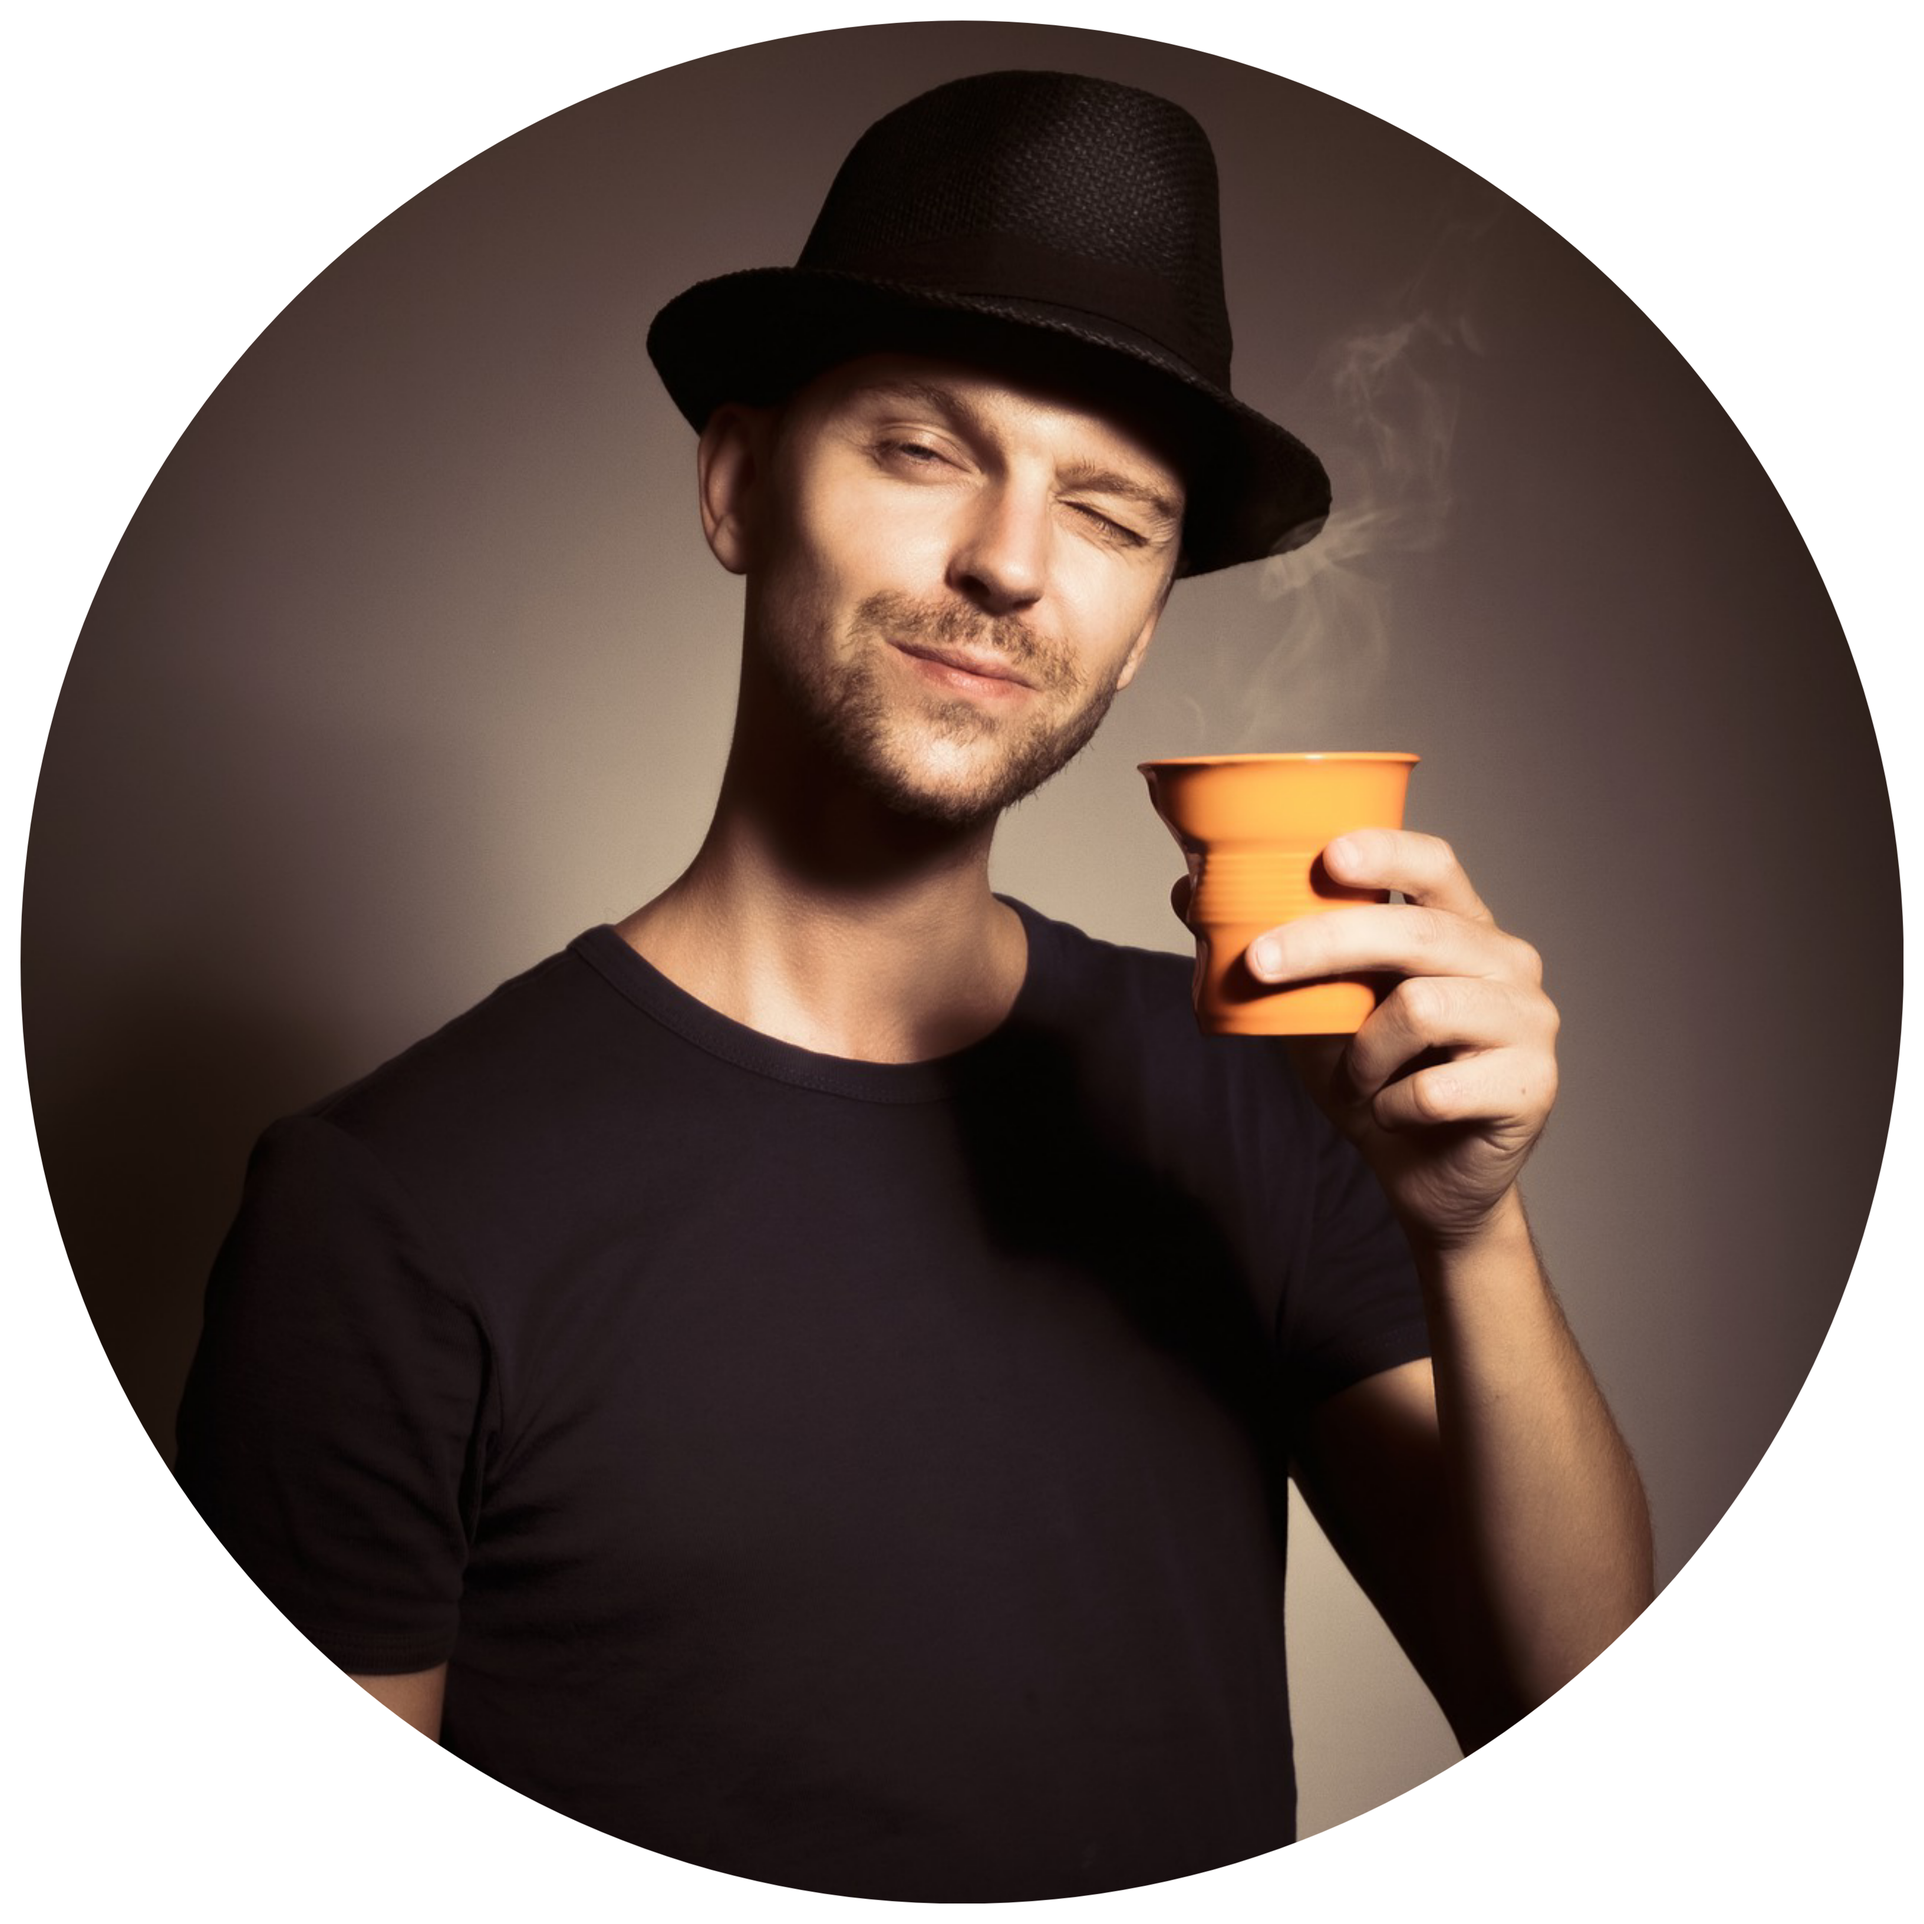
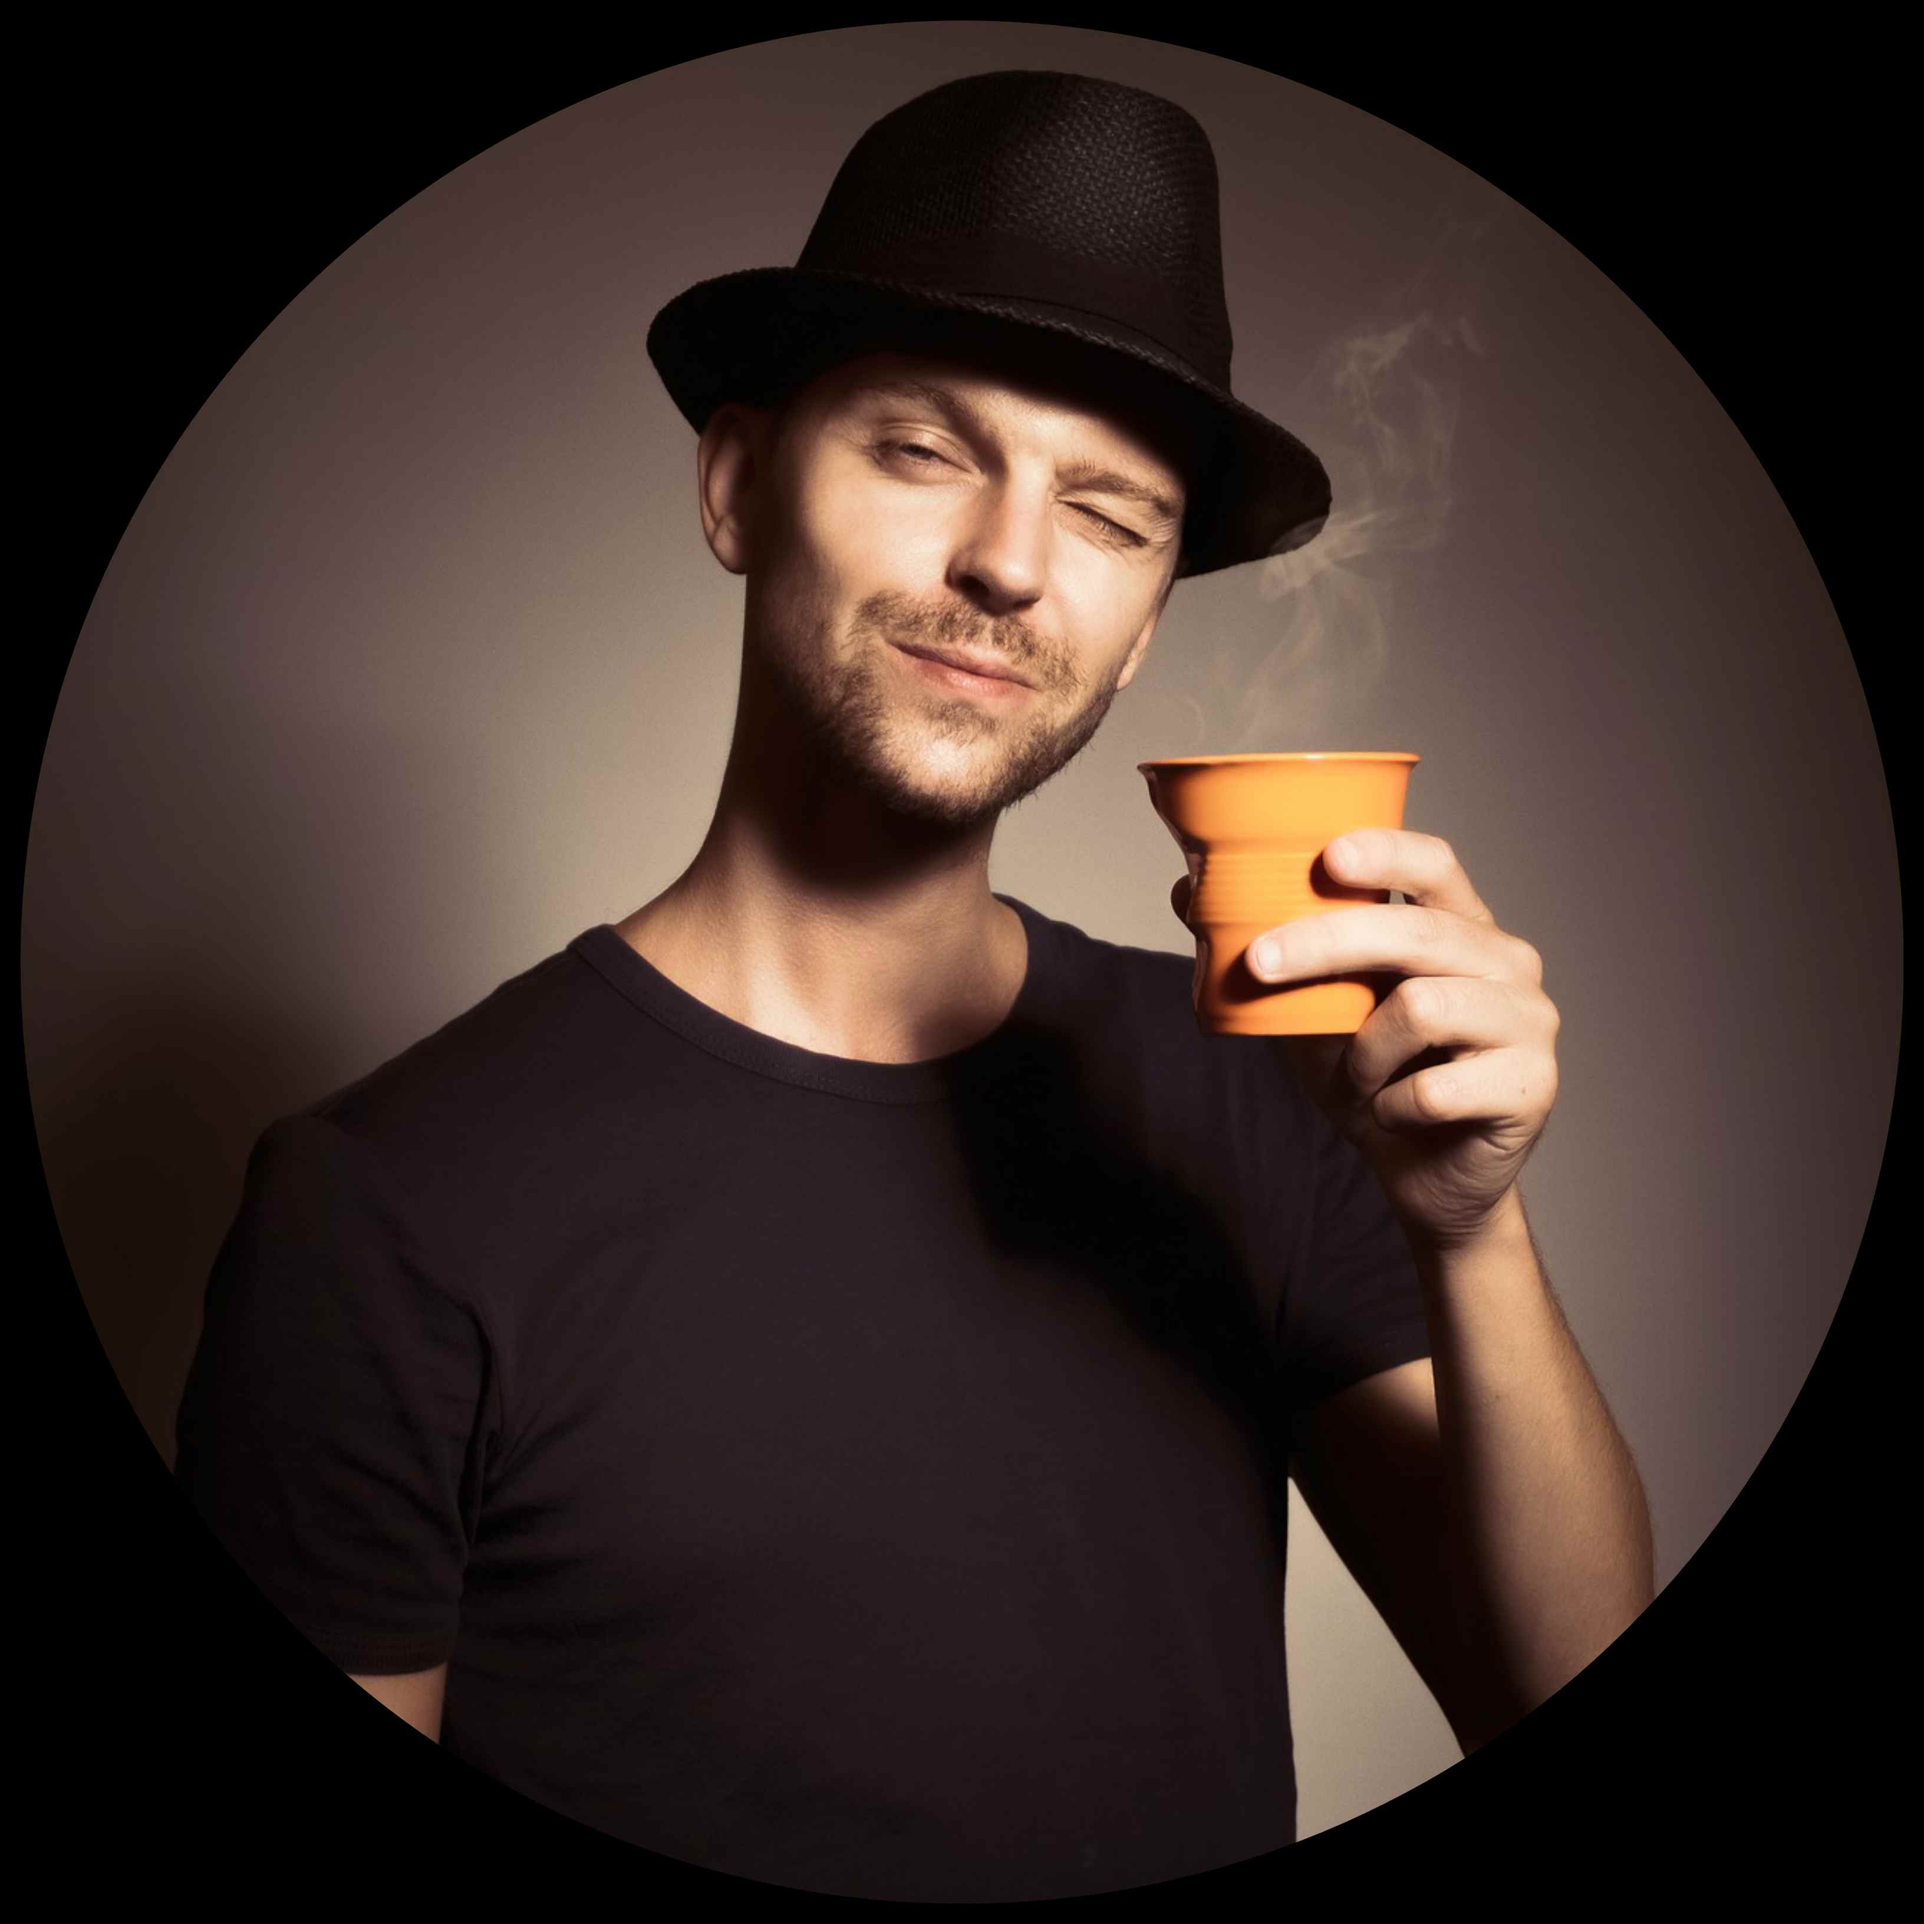
ok

Changed region(s): [[0.0, 0.0, 1.0, 1.0]]

diff --git a/css/style.css b/css/style.css
@@ -135,10 +135,8 @@ header nav .logo a{
   width: 350px;
   height:350px;
   border-radius: 50%;
-  pointer-events: none;
-  box-shadow:  /*inset 1px 1.5px 1px 0px #D1D1D1,
-                   inset -1px -2px 1px 1px #fff;*/
-                   var(--inner-shadow);
+  /*pointer-events: none;*/
+  box-shadow: var(--inner-shadow);
   padding: 5px;
   z-index: -1;
 }
